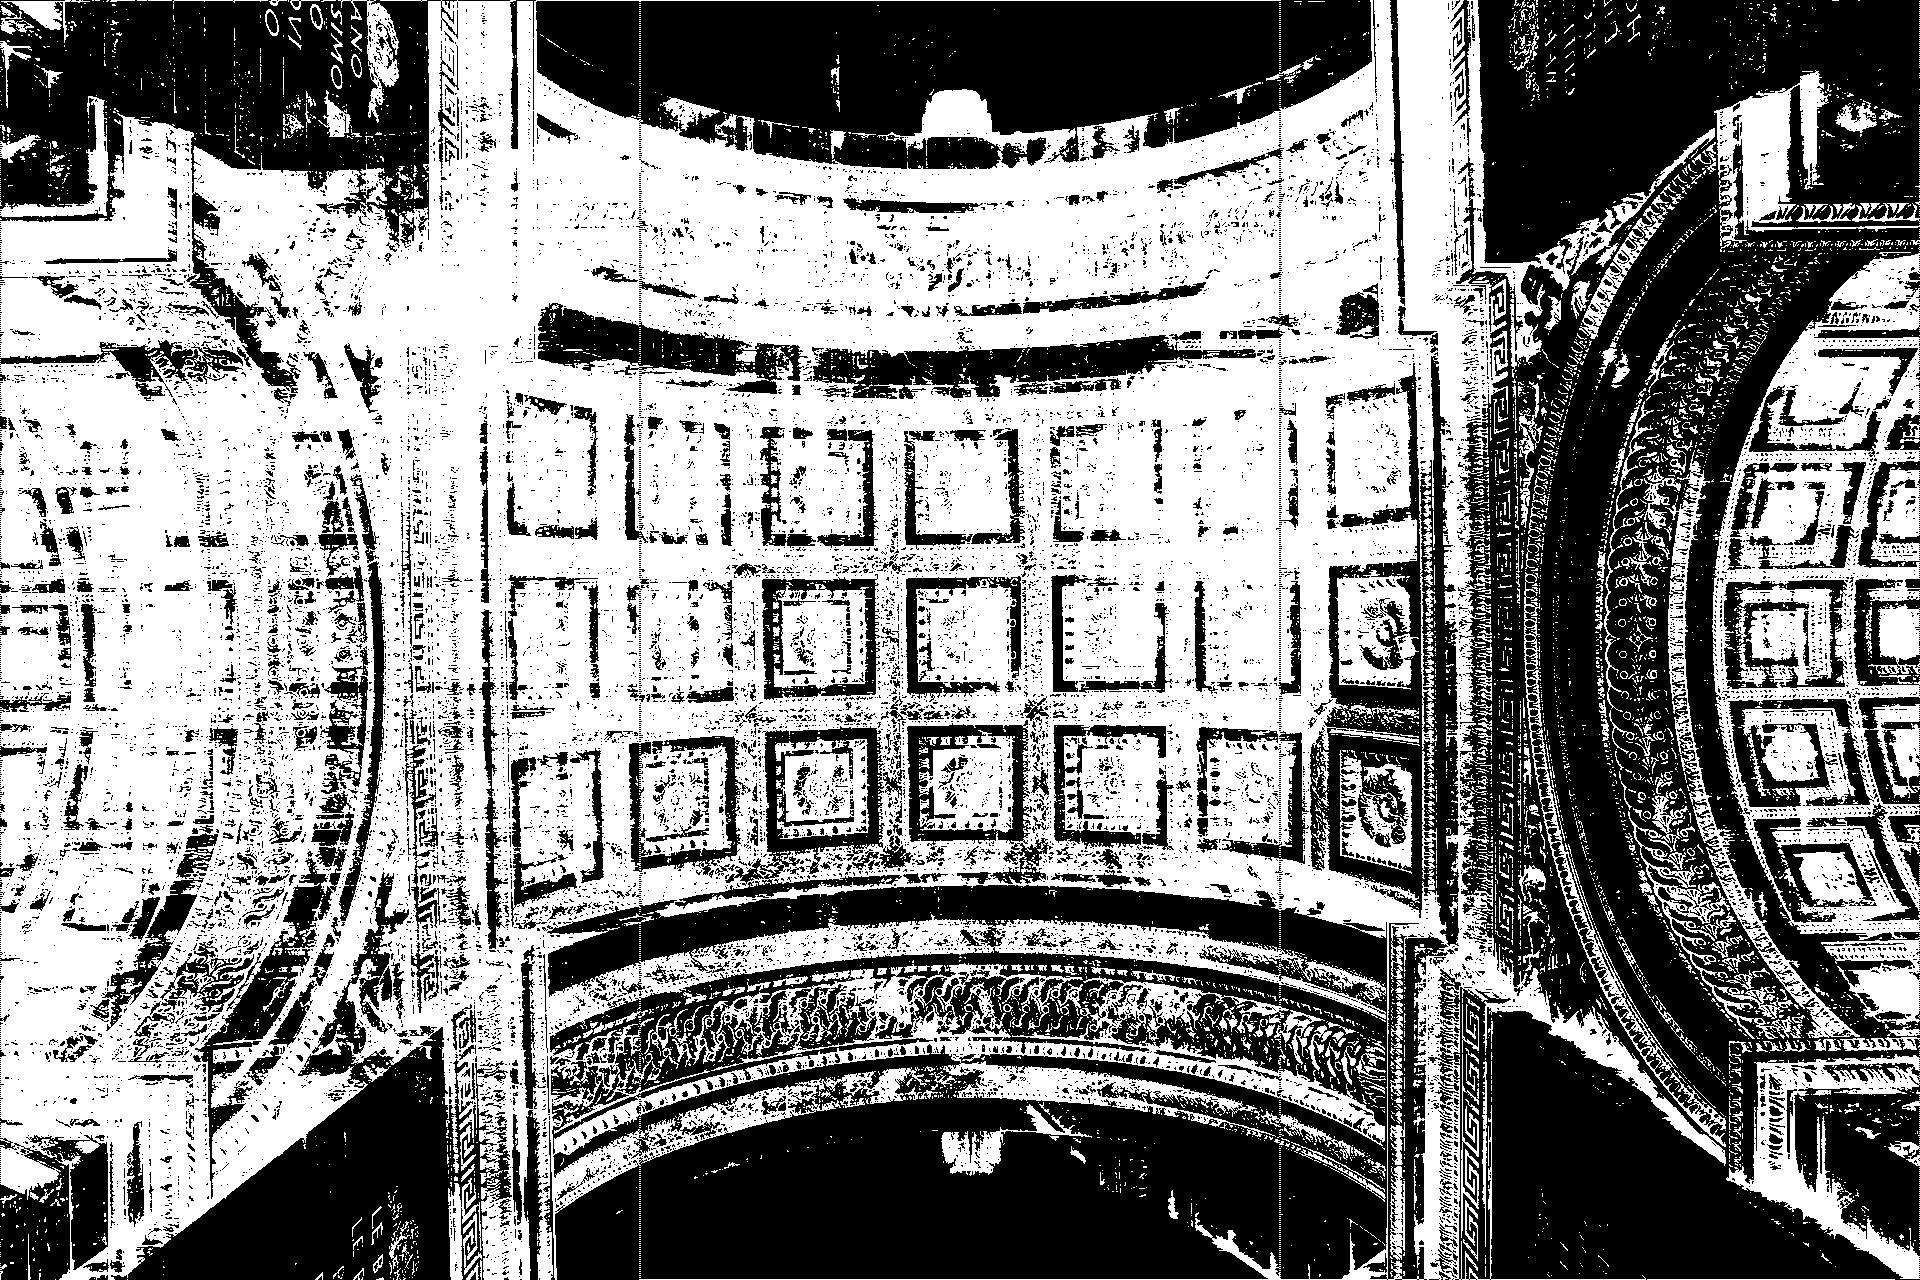
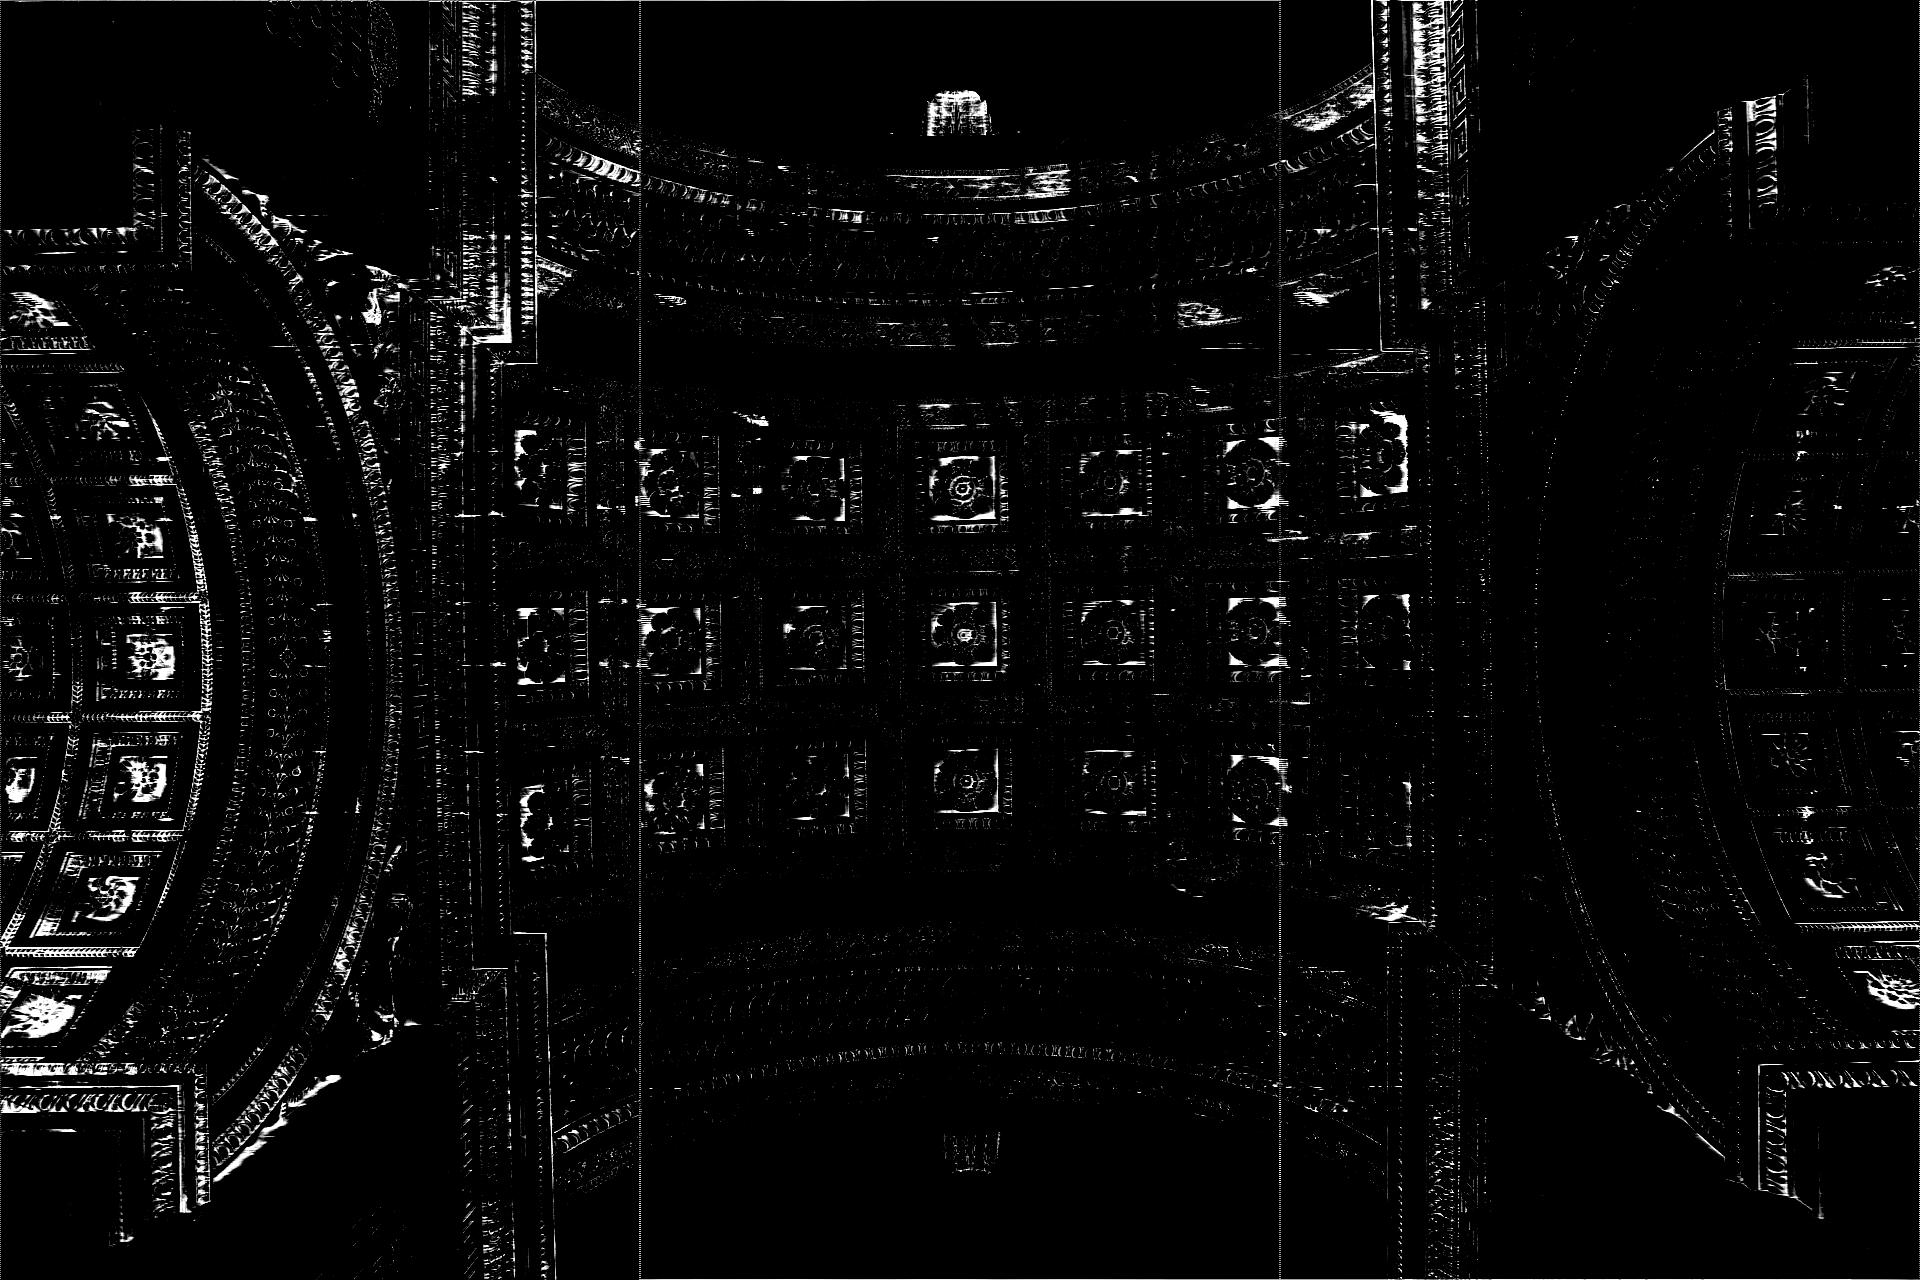
cambios en el filtro

diff --git a/src/main.c b/src/main.c
@@ -65,8 +65,11 @@ int main (int argc, char **argv)
 		printf("|          image          |       nearly black       |\n");
 		printf("|-------------------------|--------------------------|\n");
 	}
-	
+
 	int **mascara = leerMascara(nombreArchivoMasc);
+
+	uint8_t num = -256;
+	printf("%" PRIu8 "\n", num);
 
     // Para cada imagen
 	for (int i = 1; i <= cantImagenes; i++)
@@ -85,10 +88,10 @@ int main (int argc, char **argv)
 		
 		//3. aplicar filtro laplaciano
 		jpegData = aplicarFiltroLaplaciano(jpegData,mascara);
-		
+		/*
 		//4. binarizar imagen
 		jpegData = binarizarImagen(jpegData, umbralBin);
-	    
+	    */
 		//5. Clasificar imagen
 		char *nearlyBlack = analisisDePropiedad(jpegData, umbralNeg);
 

diff --git a/incl/filtro.h b/incl/filtro.h
@@ -6,4 +6,5 @@ JpegData aplicarFiltroLaplaciano(JpegData img,int **mascara);
 int **leerMascara(char *nombreMascara);
 int **crearPunteroMascara();
 void calcularFiltro(JpegData *img,int **mascara,int loc,int w, int h);
+uint8_t corregirResultado(int resultado);
 #endif

diff --git a/src/filtro.c b/src/filtro.c
@@ -78,6 +78,6 @@ void  calcularFiltro(JpegData *img,int **mascara,int loc,int w, int h){
         resultado = 0;
     else if(resultado > 255)
         resultado = 255;
-    img->data[loc] = (resultado + 255)/2;
+    img->data[loc] = resultado;
 
 }

diff --git a/src/conversion.c b/src/conversion.c
@@ -12,7 +12,7 @@ JpegData convertirAEscalaGrises(JpegData img){
     int len = img.height*img.width*img.ch;
     int loc = 0;
     int R, G, B;
-    float Y;
+    uint8_t Y;
     
     JpegData nuevaImg;
     nuevaImg.width = img.width;
